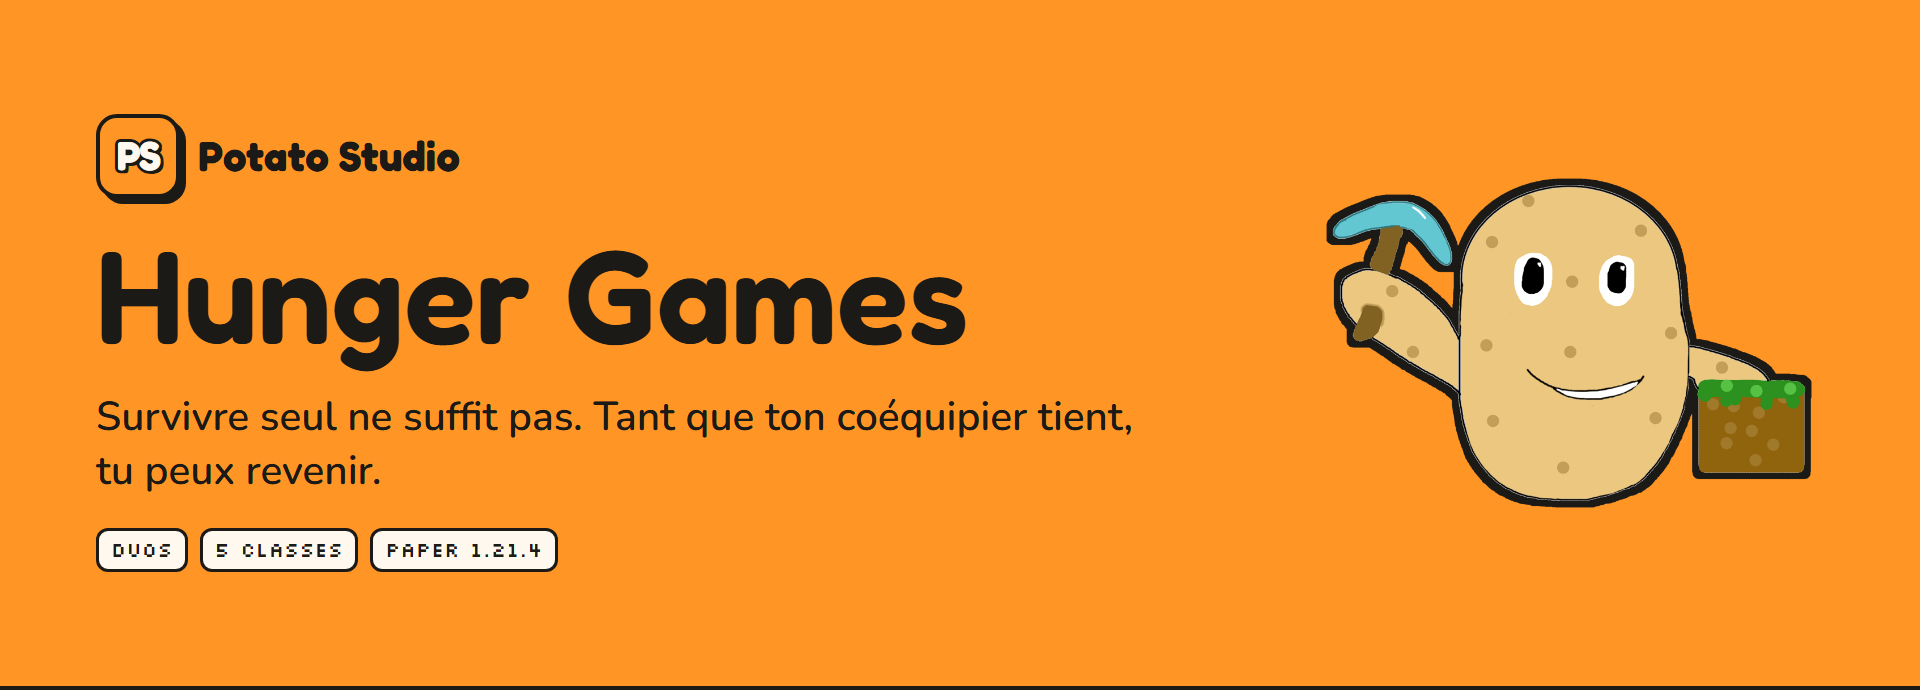
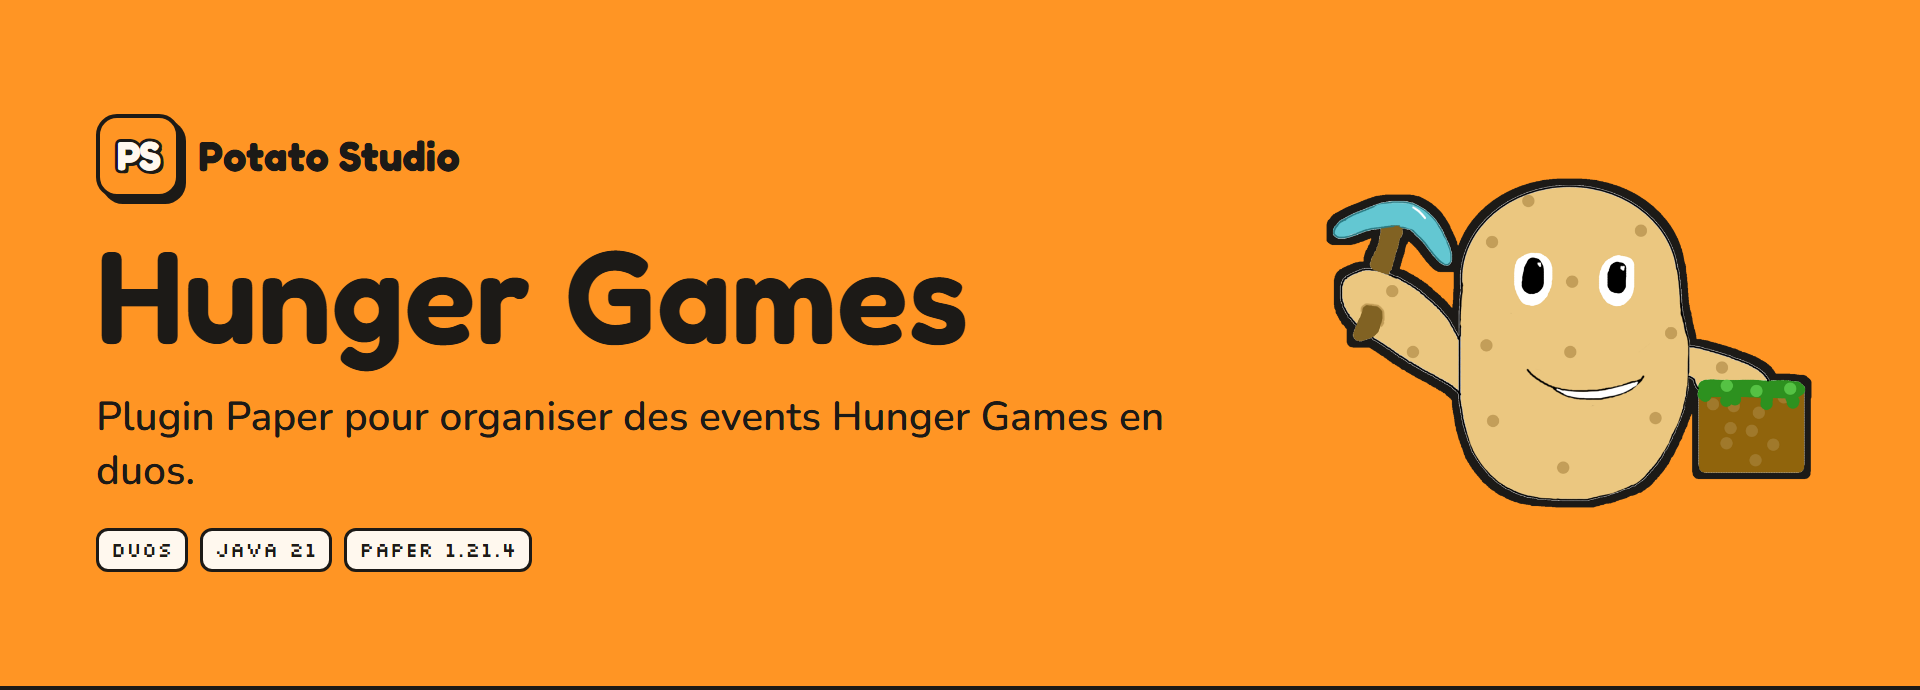
README : présentation par fonctionnalités

Changed region(s): [[0.0312, 0.5783, 0.625, 0.6391], [0.0938, 0.7609, 0.3125, 0.8522], [0.0312, 0.6696, 0.2188, 0.7]]

diff --git a/README.md b/README.md
@@ -1,28 +1,61 @@
 <p align="center">
-  <img src="docs/images/banniere.png" alt="Hunger Games, par Potato Studio : duos, 5 classes, Paper 1.21.4">
+  <img src="docs/images/banniere.png" alt="Hunger Games, plugin Paper 1.21.4 par Potato Studio">
 </p>
 
 # Hunger Games
 
-Plugin Paper de Hunger Games en duos, développé par Potato Studio. Forme ton équipe, pille les coffres, survis à la bordure : la dernière équipe en vie gagne. Maps, durées, loot et textes se règlent sans toucher au code.
+Plugin Paper pour organiser des events Hunger Games en duos, développé par Potato Studio. Il gère tout le cycle d'une partie, du lobby au classement final. Les réglages et les textes sont dans des fichiers de configuration.
 
-<p align="center">
-  <img src="docs/images/principe.png" alt="Le principe en 4 étapes : former un duo, piller les coffres, survivre à la bordure et aux largages, rester la dernière équipe en vie.">
-</p>
+## Fonctionnalités
 
-<p align="center">
-  <img src="docs/images/equipes.png" alt="Le jeu se joue à deux : négociation du duo, réapparition sous 90 secondes si le coéquipier survit, pas de tir ami, coéquipier attribué au hasard à la fermeture du lobby, passage en spectateur après élimination, finalistes brillants à 2 équipes.">
-</p>
+**Gestion de partie**
+- Modes `OFF`, `LOBBY` et `FERMETURE`, puis lancement avec choix de la map et compte à rebours avec joueurs gelés
+- Fin automatique à la dernière équipe en vie ou à la durée maximale, clôture manuelle avec `/end`
+- Top kills, retour au lobby et nettoyage des coffres en fin de partie
+- Scoreboard de partie : joueurs et équipes restants, prochain largage, état de la bordure
+- Modes de test à un joueur (`/go test`) et à deux joueurs (`/go test_duo`)
 
-<p align="center">
-  <img src="docs/images/twists.png" alt="Les twists : largages près d'un joueur tiré au sort, prime qui fait gagner un cœur, une seule masse par partie, bordure qui rétrécit après 5 minutes, élimination en cas de déconnexion en combat, halo de rareté autour des coffres.">
-</p>
+**Administration**
+- Rôles Admin et AFK, exclus de la partie
+- Outils d'administration en objets dans la barre d'action, en lobby comme en partie
+- Vue d'ensemble de l'état du jeu avec `/hunger`
+- Vanish, mannequins d'entraînement, PVP activable à la demande, resynchronisation d'un joueur
 
-<p align="center">
-  <img src="docs/images/classes.png" alt="Les 5 classes : Bouclier, Vitesse, Invisible, Feu et Loup-Garou.">
-</p>
+**Maps**
+- Nombre de maps libre, chacune avec son nom, son centre, son rayon d'apparition et sa bordure
+- Chargement automatique des mondes au démarrage, Multiverse-Core facultatif
+- Restauration depuis une sauvegarde avec `/resetmap`, manuelle ou automatique après chaque partie
 
-Les durées indiquées sont les valeurs par défaut, modifiables dans `config.yml`.
+**Équipes**
+- Duos formés par menu : demande, acceptation, choix de la couleur
+- Création et modification manuelles avec `/equipe`
+- Appariement automatique des joueurs restants à la fermeture du lobby
+- Réapparition près du coéquipier après un délai réglable
+- Protection contre les dégâts entre coéquipiers
+
+**Classes**
+- 5 classes avec un pouvoir passif et un pouvoir actif : Bouclier, Vitesse, Invisible, Feu, Loup-Garou
+- Choix par menu, livre de description, recharge réglable
+- Hologrammes de présentation pour le lobby avec FancyHolograms
+
+**Coffres et loot**
+- Nombre de coffres par map, part au tas central, rayons et centres réglables
+- 5 raretés à poids réglables, avec 2 variantes de contenu chacune, et un halo de particules par rareté
+- Contenu défini dans `config.yml`, ou capturé en jeu depuis un vrai coffre avec son NBT complet (`/loot`)
+- Éditeur de pools en jeu, objets limités à un exemplaire par partie
+
+**Bordure et largages**
+- Délai avant rétrécissement, taille finale, dégâts et avertissement réglables
+- Vitesse modifiable en cours de partie avec `/bordure` et `/max`
+- Largages automatiques près d'un joueur tiré au sort : 4 variantes de contenu, premier délai, intervalle et rayon réglables
+- Largage manuel sur un joueur choisi avec `/largage`
+
+**Déconnexions**
+- Marquage de combat : une déconnexion élimine aussitôt sous un seuil de vie, sinon après un délai laissé pour revenir
+
+**Personnalisation**
+- Tous les textes dans `messages.yml`, avec codes couleur et valeurs dynamiques
+- Les réglages de `/config` sont enregistrés dans `config.yml`
 
 ## Versions
 
